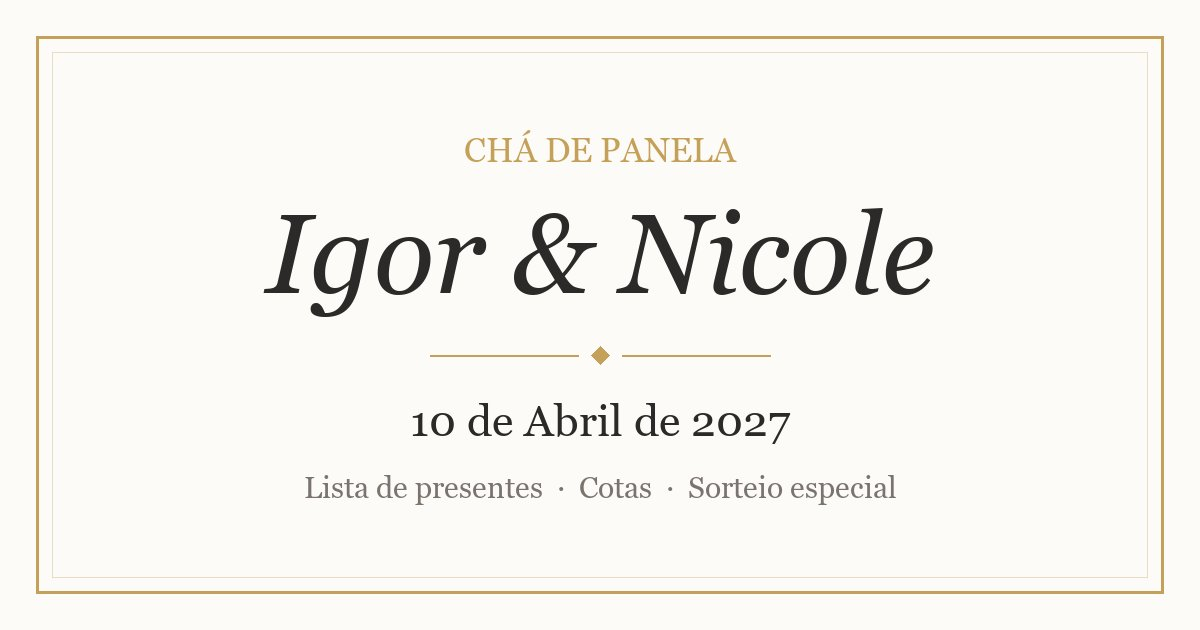
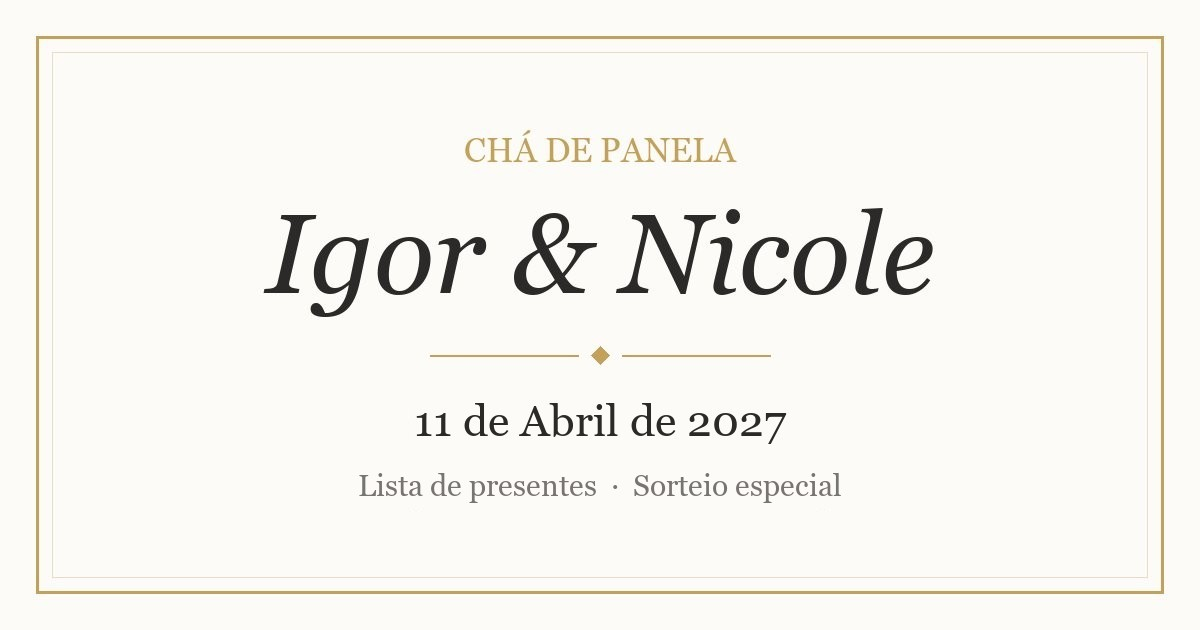
datas corrigidas

Changed region(s): [[0.2467, 0.754, 0.74, 0.8143], [0.3392, 0.6333, 0.6783, 0.6937]]

diff --git a/index.html b/index.html
@@ -16,13 +16,13 @@
     <meta property="og:site_name" content="Igor & Nicole" />
     <meta property="og:title" content="Igor & Nicole — Chá de Panela" />
     <meta property="og:description" content="Lista de presentes (Pix ou cartão parcelado) e sorteio especial. 11 de Abril de 2027." />
-    <meta property="og:image" content="https://igor-e-nicole.vercel.app/og-image.jpg" />
+    <meta property="og:image" content="https://igor-e-nicole.vercel.app/og-image.jpg?v=3" />
     <meta property="og:image:type" content="image/jpeg" />
     <meta property="og:image:width" content="1200" />
     <meta property="og:image:height" content="630" />
     <meta property="og:image:alt" content="Chá de Panela de Igor & Nicole — 11 de Abril de 2027" />
     <meta name="twitter:card" content="summary_large_image" />
-    <meta name="twitter:image" content="https://igor-e-nicole.vercel.app/og-image.jpg" />
+    <meta name="twitter:image" content="https://igor-e-nicole.vercel.app/og-image.jpg?v=3" />
   </head>
   <body>
     <div id="root"></div>

diff --git a/src/data/mockData.ts b/src/data/mockData.ts
@@ -1,17 +1,17 @@
 import type { Presente, Recado } from '@/types';
 
-export const EVENT_DATE = new Date('2027-04-10T18:00:00-03:00');
+export const EVENT_DATE = new Date('2027-04-11T17:00:00-03:00');
 
 // Textos derivados de EVENT_DATE: para mudar a data do evento, altere só a linha acima.
 const formatarEvento = (opcoes: Intl.DateTimeFormatOptions) =>
   EVENT_DATE.toLocaleString('pt-BR', { timeZone: 'America/Sao_Paulo', ...opcoes });
 const mesEvento = formatarEvento({ month: 'long' });
 
-/** Ex.: "10 de Abril de 2027" */
+/** Ex.: "11 de Abril de 2027" */
 export const EVENT_DATA_TEXTO = `${formatarEvento({ day: 'numeric' })} de ${
   mesEvento.charAt(0).toUpperCase() + mesEvento.slice(1)
 } de ${formatarEvento({ year: 'numeric' })}`;
-/** Ex.: "18h00" */
+/** Ex.: "17h00" */
 export const EVENT_HORA_TEXTO = formatarEvento({ hour: '2-digit', minute: '2-digit', hour12: false }).replace(':', 'h');
 
 export const NOIVOS_WHATSAPP = '5563984609954';

diff --git a/docs/alteracoes/2026-11-10-nova-data-do-evento.md b/docs/alteracoes/2026-11-10-nova-data-do-evento.md
@@ -1,0 +1,29 @@
+# Nova data do evento: 11 de abril de 2027, às 17h
+
+Pedido do Pedro: mudar a data do Chá de Panela para **11 de abril às 17h** em todos os lugares do site.
+
+## O que mudou
+
+- **`src/data/mockData.ts`**: `EVENT_DATE` passou de `2027-04-10 18:00` para `2027-04-11 17:00` (horário de Brasília).
+  Todos os textos do site saem dessa linha, então mudaram juntos:
+  - Topo da página (Hero): "11 de Abril de 2027 · 17h00"
+  - Contagem regressiva: agora conta até 11/04 às 17h, com o texto "11 de Abril de 2027 às 17h00"
+  - Seção de local: "11 de Abril de 2027 / A partir das 17h00"
+  - Rodapé, pergunta do sorteio no FAQ, tela de confirmação do presente e painel do admin
+- **`public/og-image.jpg`** (a imagem que aparece quando alguém manda o link no WhatsApp): estava escrito "10 de Abril de 2027". Troquei só o texto da data por "11 de Abril de 2027", na mesma fonte, cor e posição. O resto da imagem ficou igual.
+- **`index.html`**: as descrições do link já diziam "11 de Abril de 2027" e não mudaram. Só coloquei `?v=2` no endereço da imagem de prévia. Sem isso, o WhatsApp e as outras redes continuariam mostrando a imagem antiga, que elas guardam em cache.
+
+## Conferido
+
+- O TypeScript não acusou erros e o build de produção passou.
+- Os textos gerados pela nova data são "11 de abril de 2027" e "17h00".
+
+## Correção extra (pedida depois)
+
+- A imagem de prévia ainda dizia **"Cotas"**, mas as cotas saíram do site em 03/10. Agora o rodapé dela diz só "Lista de presentes · Sorteio especial", centralizado, com a mesma fonte e cor.
+- O endereço da imagem no `index.html` passou para `?v=3`, para o WhatsApp buscar a versão nova.
+
+## Para o Pedro
+
+- O ano ficou **2027**, porque era o que já estava no site. Se for outro ano, é só avisar.
+- Links que já foram mandados no WhatsApp antes podem continuar com a prévia antiga nas conversas antigas. Nos envios novos, a prévia já sai certa.
